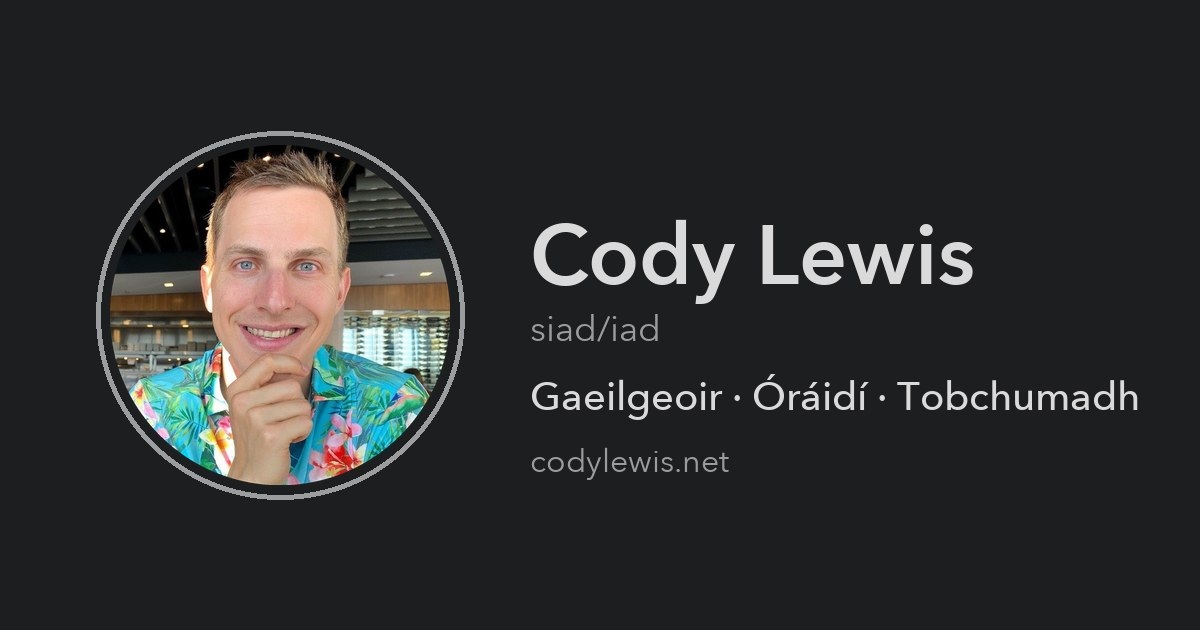
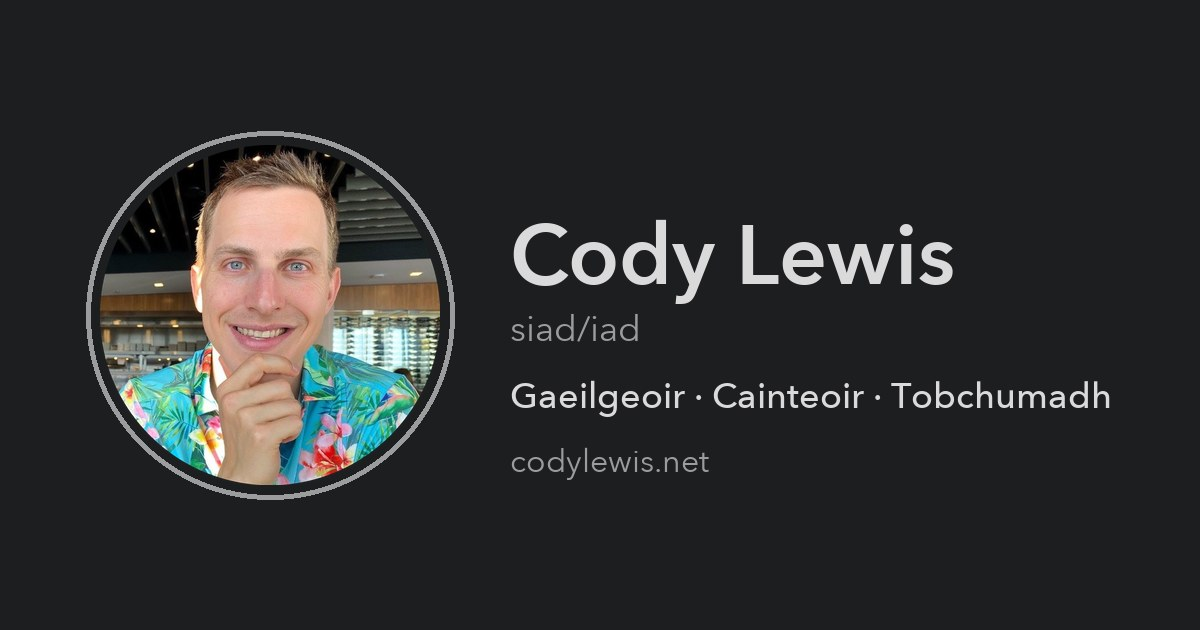
Use Cainteoir for speaker and translate footer credit in Irish

diff --git a/layouts/_partials/footer.html b/layouts/_partials/footer.html
@@ -1,0 +1,158 @@
+{{- if not (.Param "hideFooter") }}
+<footer class="footer">
+    {{- if not site.Params.footer.hideCopyright }}
+        {{- if site.Copyright }}
+        <span>{{ site.Copyright | markdownify }}</span>
+        {{- else }}
+        <span>&copy; {{ now.Year }} <a href="{{ "" | absLangURL }}">{{ site.Title }}</a></span>
+        {{- end }}
+        {{- print " · "}}
+    {{- end }}
+
+    {{- with site.Params.footer.text }}
+        {{ . | markdownify }}
+        {{- print " · "}}
+    {{- end }}
+
+    {{/*
+        - The "Powered by Hugo" text is intentionally left at the end of the footer to give it more prominence.
+        - We kindly encourage you to keep this line. Keeping this credit helps open source projects like PaperMod and Hugo reach more people, supports the open source ecosystem, and shows appreciation for the work that goes into these tools.
+        - If you choose to remove it, please consider adding a link to the PaperMod GitHub repository somewhere on your site to give credit to the project and its contributors.
+        - Support us by sponsoring the project on GitHub Sponsors: https://github.com/sponsors/adityatelange
+    */}}
+    
+    <span>
+        {{ i18n "powered_by" | default "Powered by" }}
+        <a href="https://gohugo.io/?utm_source=papermod" rel="noopener" target="_blank">Hugo</a> &
+        <a href="https://github.com/adityatelange/hugo-PaperMod/" rel="noopener" target="_blank">PaperMod</a>
+    </span>
+</footer>
+{{- end }}
+
+{{- if (not site.Params.disableScrollToTop) }}
+<a href="#top" id="top-link" class="top-link hidden" aria-label="go to top" title="Go to Top (Alt + G)" accesskey="g">
+    <svg xmlns="http://www.w3.org/2000/svg" viewBox="0 0 24 24" fill="none" stroke="currentColor" stroke-width="2"
+        stroke-linecap="round" stroke-linejoin="round" class="feather feather-chevrons-up">
+        <polyline points="17 11 12 6 7 11"></polyline>
+        <polyline points="17 18 12 13 7 18"></polyline>
+    </svg>
+</a>
+{{- end }}
+
+{{- partial "extend_footer.html" . }}
+
+<script>
+    let menu = document.getElementById('menu');
+    if (menu) {
+        // Set the scroll position
+        const scrollPosition = localStorage.getItem("menu-scroll-position");
+        if (scrollPosition) {
+            menu.scrollLeft = parseInt(scrollPosition, 10);
+        }
+        
+        menu.onscroll = function () {
+            localStorage.setItem("menu-scroll-position", menu.scrollLeft);
+        }
+    }
+
+    document.querySelectorAll('a[href^="#"]').forEach(anchor => {
+        anchor.addEventListener("click", function (e) {
+            e.preventDefault();
+            var id = this.getAttribute("href").substr(1);
+            if (!window.matchMedia('(prefers-reduced-motion: reduce)').matches) {
+                document.querySelector(`[id='${decodeURIComponent(id)}']`).scrollIntoView({
+                    behavior: "smooth"
+                });
+            } else {
+                document.querySelector(`[id='${decodeURIComponent(id)}']`).scrollIntoView();
+            }
+            if (id === "top") {
+                history.replaceState(null, null, " ");
+            } else {
+                history.pushState(null, null, `#${id}`);
+            }
+        });
+    });
+
+</script>
+
+{{- if (not site.Params.disableScrollToTop) }}
+<script>
+    var toplink = document.getElementById("top-link");
+    window.onscroll = function () {
+        const scrollThreshold = window.innerHeight;
+        if (document.body.scrollTop > scrollThreshold || document.documentElement.scrollTop > scrollThreshold) {
+            toplink.classList.remove("hidden");
+        } else {
+            toplink.classList.add("hidden");
+        }
+    };
+
+</script>
+{{- end }}
+
+{{- if (not site.Params.disableThemeToggle) }}
+<script>
+    document.getElementById("theme-toggle").addEventListener("click", () => {
+        const html = document.querySelector("html");
+        if (html.dataset.theme === "dark") {
+            html.dataset.theme = 'light';
+            localStorage.setItem("pref-theme", 'light');
+        } else {
+            html.dataset.theme = 'dark';
+            localStorage.setItem("pref-theme", 'dark');
+        }
+    })
+
+</script>
+{{- end }}
+
+{{- if (and (eq .Kind "page") (ne .Layout "archives") (ne .Layout "search") (.Param "ShowCodeCopyButtons")) }}
+<script>
+    document.querySelectorAll('pre > code').forEach((codeblock) => {
+        const container = codeblock.parentNode.parentNode;
+
+        const copybutton = document.createElement('button');
+        copybutton.classList.add('copy-code');
+        copybutton.innerHTML = '{{- i18n "code_copy" | default "copy" }}';
+
+        function copyingDone() {
+            copybutton.innerHTML = '{{- i18n "code_copied" | default "copied!" }}';
+            setTimeout(() => {
+                copybutton.innerHTML = '{{- i18n "code_copy" | default "copy" }}';
+            }, 2000);
+        }
+
+        copybutton.addEventListener('click', (cb) => {
+            if ('clipboard' in navigator) {
+                navigator.clipboard.writeText(codeblock.textContent);
+                copyingDone();
+                return;
+            }
+
+            const range = document.createRange();
+            range.selectNodeContents(codeblock);
+            const selection = window.getSelection();
+            selection.removeAllRanges();
+            selection.addRange(range);
+            try {
+                document.execCommand('copy');
+                copyingDone();
+            } catch (e) { };
+            selection.removeRange(range);
+        });
+
+        if (container.classList.contains("highlight")) {
+            container.appendChild(copybutton);
+        } else if (container.parentNode.firstChild == container) {
+            // td containing LineNos
+        } else if (codeblock.parentNode.parentNode.parentNode.parentNode.parentNode.nodeName == "TABLE") {
+            // table containing LineNos and code
+            codeblock.parentNode.parentNode.parentNode.parentNode.parentNode.appendChild(copybutton);
+        } else {
+            // code blocks not having highlight as parent class
+            codeblock.parentNode.appendChild(copybutton);
+        }
+    });
+</script>
+{{- end }}
